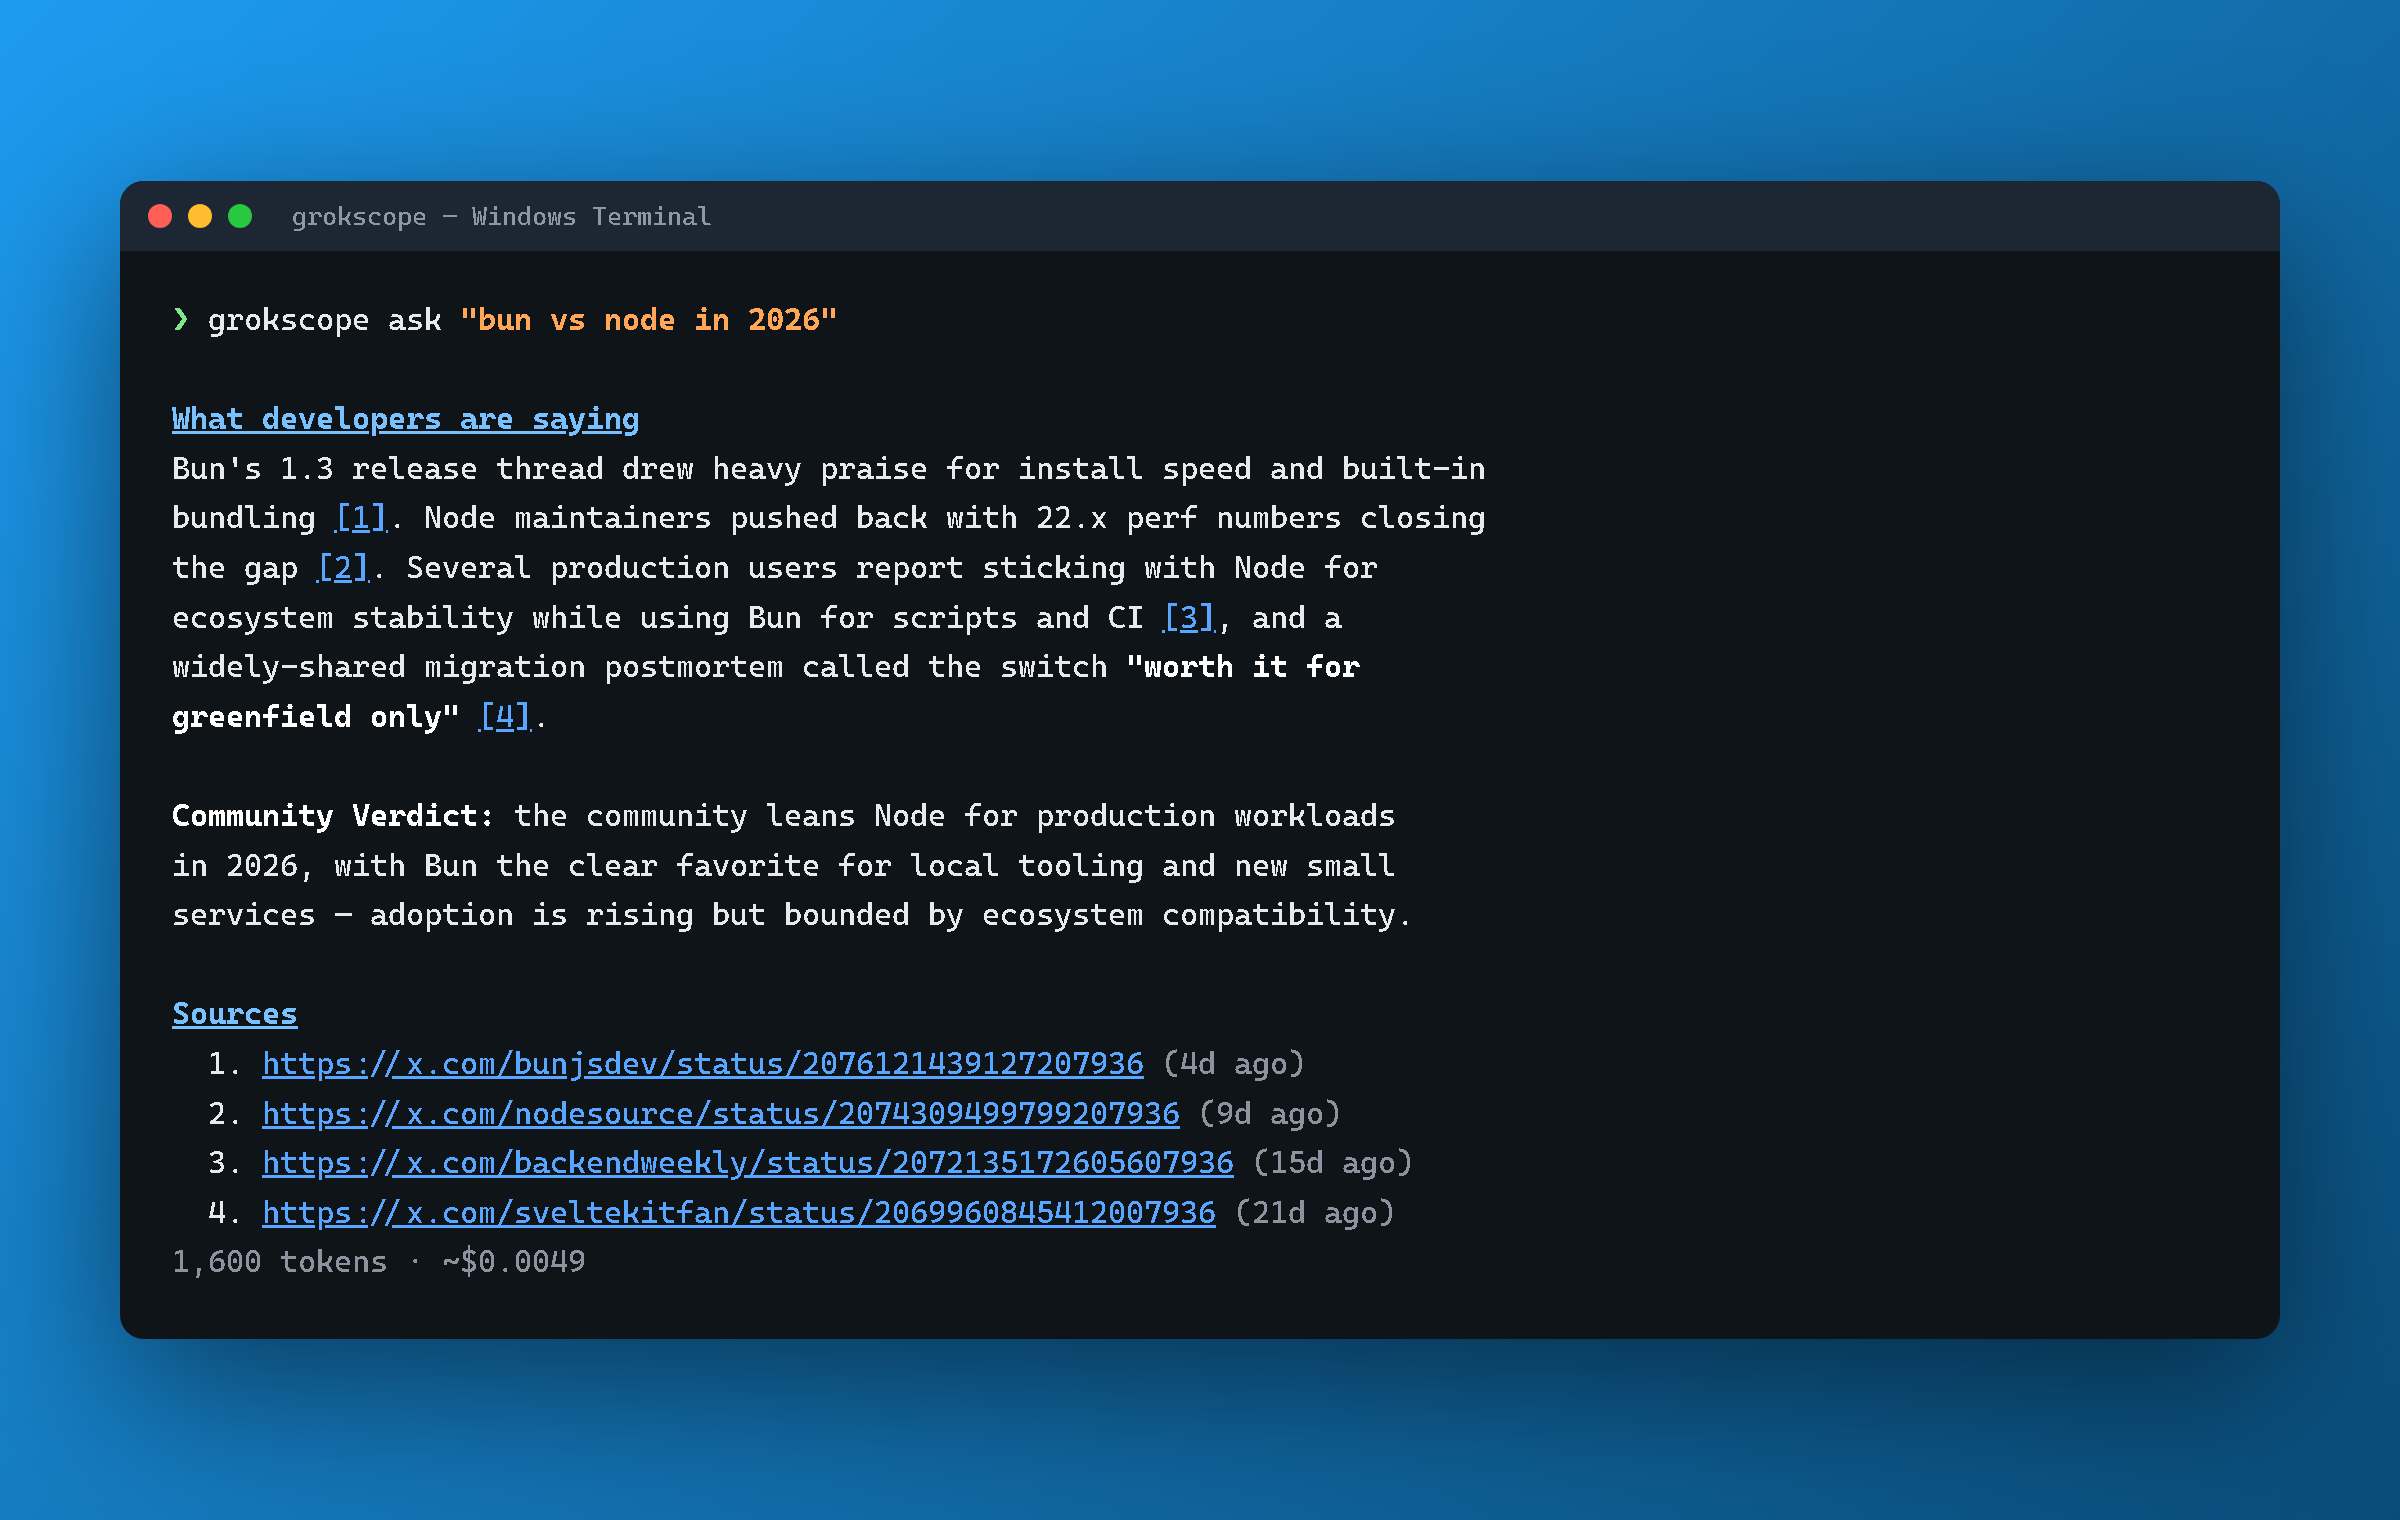
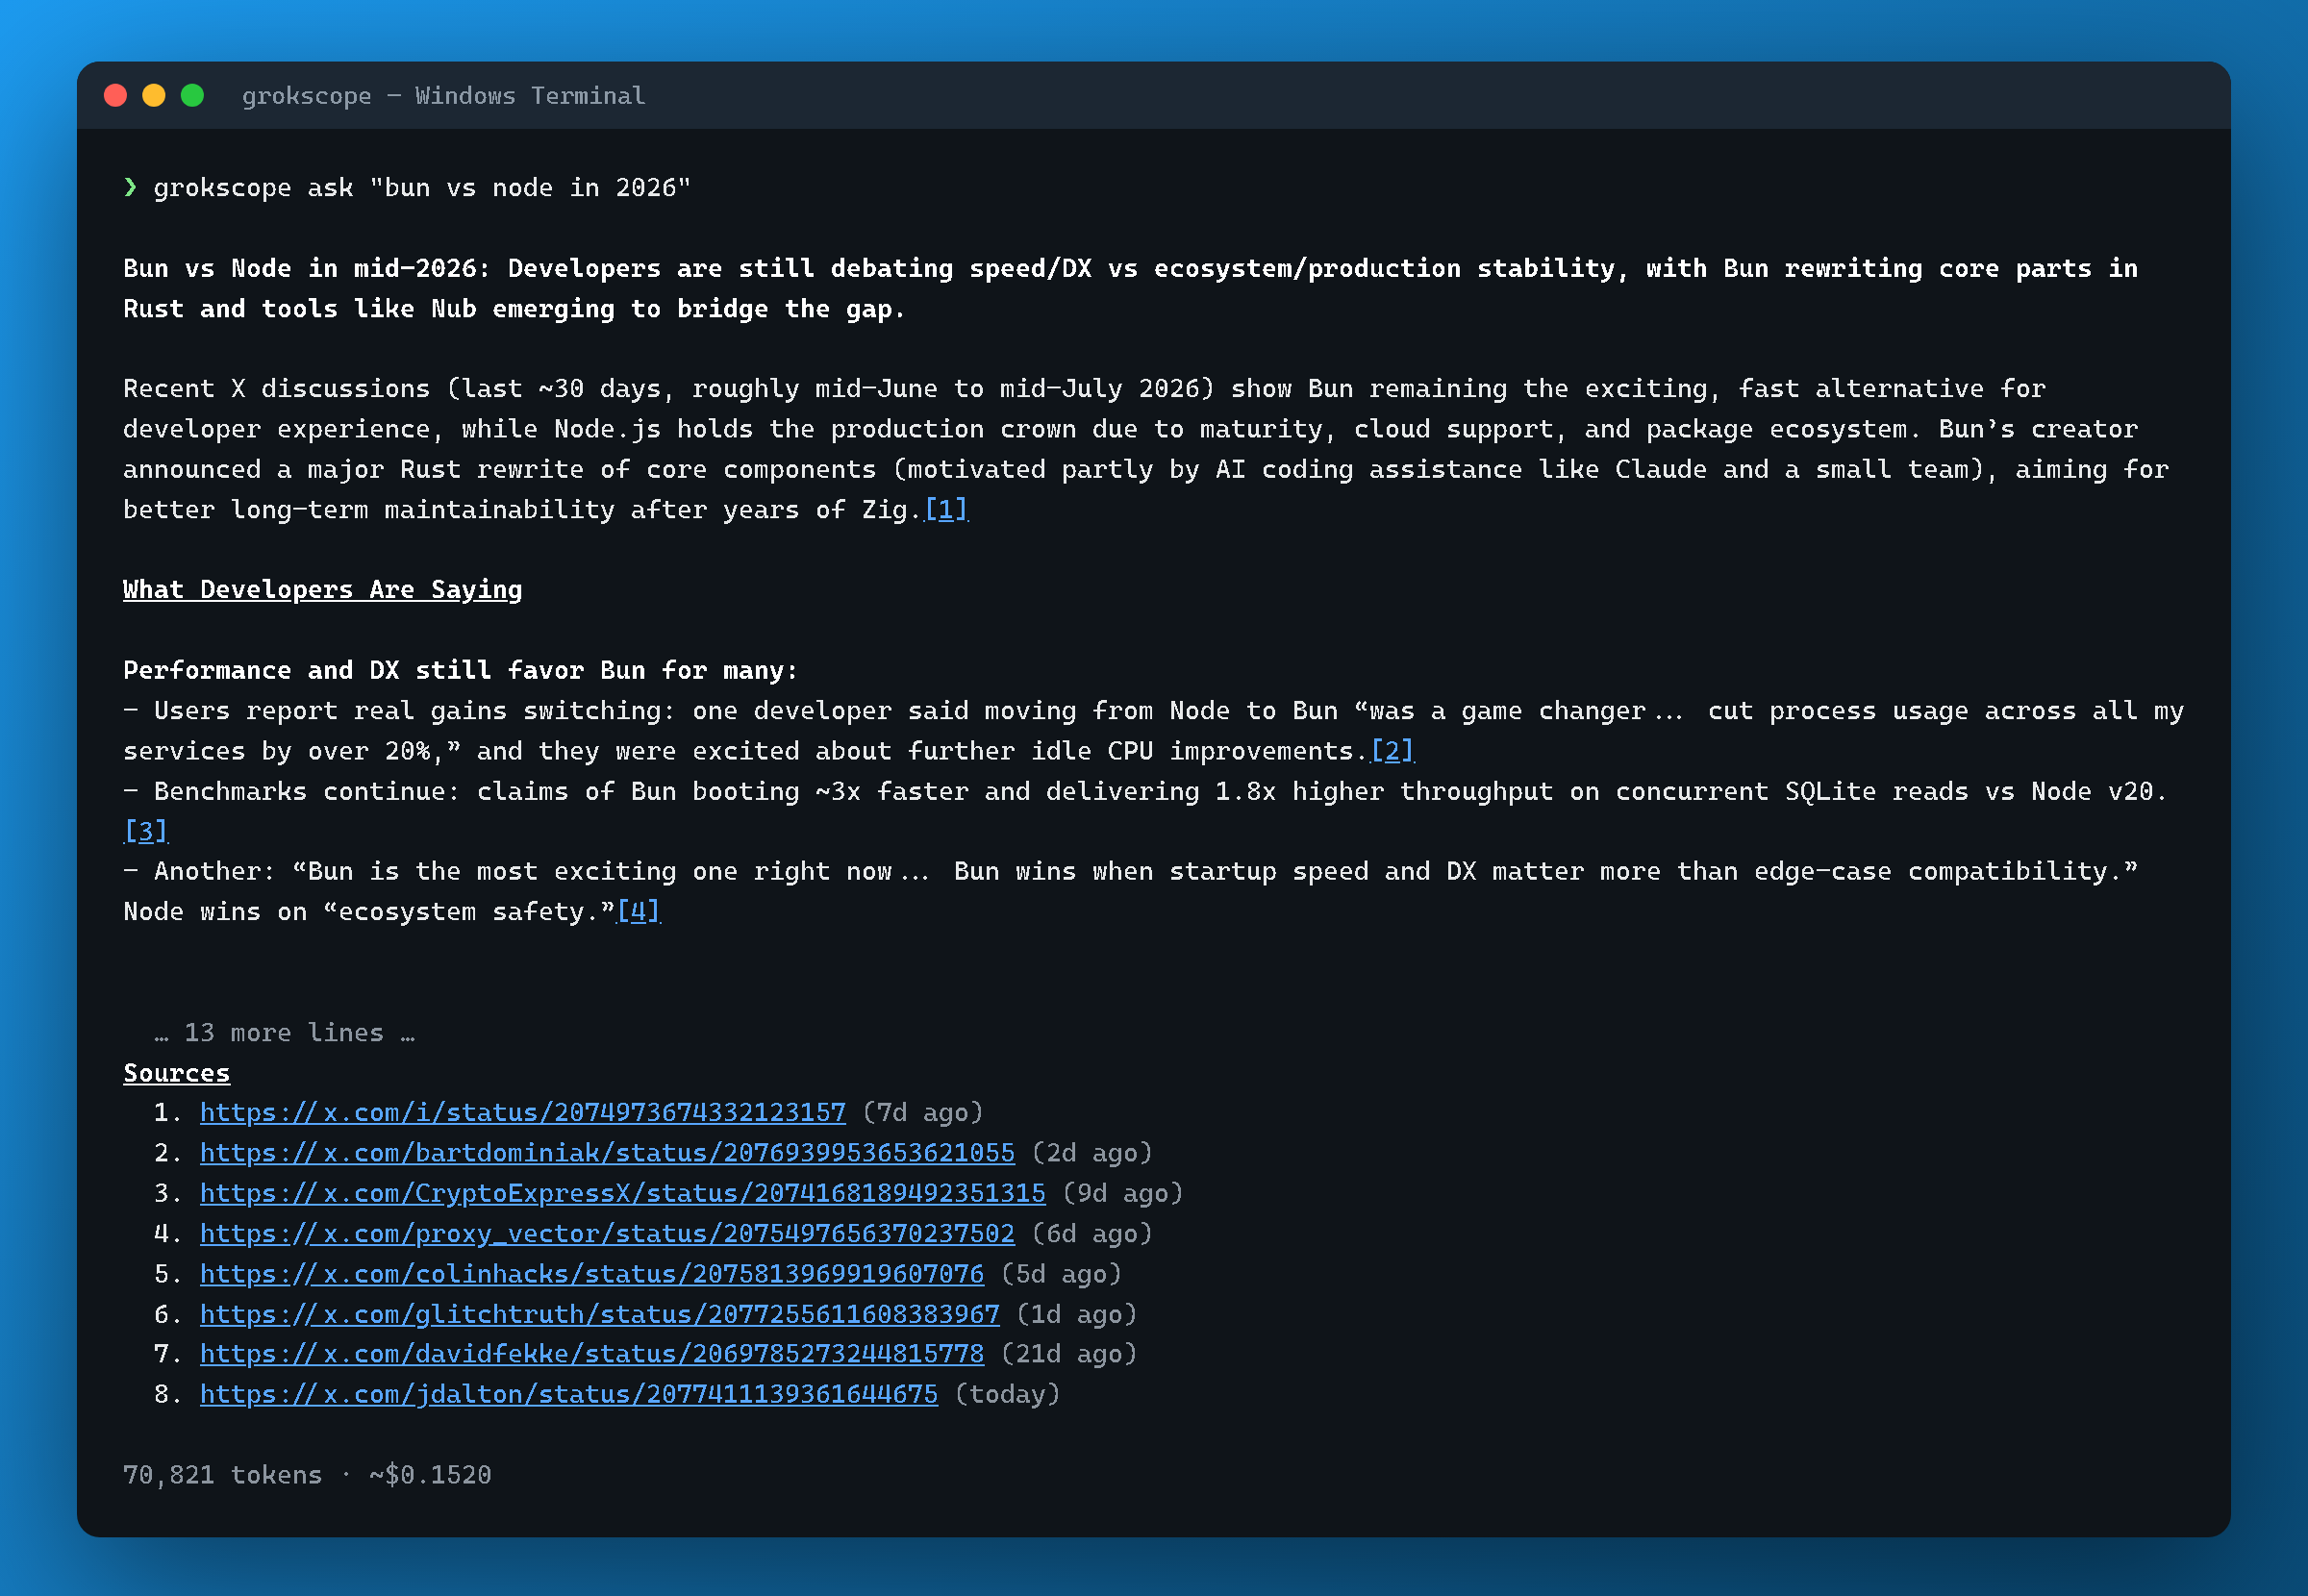
Replace fabricated screenshots with real, verified output
The marketing PNGs were hand-written HTML mockups presenting invented X posts
as real tool output. The fake handles (bunjsdev, nodesource, sveltekitfan) and
the "1,600 tokens / ~$0.0049" cost line came straight from the test mock's
fixtures - fixture data dressed up as a product demo. All four fabricated
citation URLs return 404. GrokScope's whole pitch is that every claim cites a
real post, so the hero image would have collapsed that claim on the first click.

Regenerated from two real API runs (ask $0.152, trending $0.202) by rendering
the cached --json through the shipped formatter with ansi=true, so the images
show exactly what a TTY shows. Every citation verified live: 8/8 and 17/17
return 200, against 404 for the fabricated ones.

Also removed two more surviving false cost claims: the README documented the
cost line as "1,600 tokens / ~$0.0049" (31x under) and the one-pager still said
"typically a few cents". Regenerated the stale PDF from the fixed HTML.

marketing/render-shot.mjs is committed so the images can be rebuilt from any
cached run rather than hand-drawn again.

diff --git a/marketing/screenshot-trending.html b/marketing/screenshot-trending.html
@@ -1,35 +1,52 @@
 <!DOCTYPE html>
 <html><head><meta charset="utf-8"><style>
   * { margin:0; padding:0; box-sizing:border-box; }
-  body { width:1200px; height:660px; background:linear-gradient(135deg,#1d9bf0 0%,#0a4d7a 100%); display:flex; align-items:center; justify-content:center; font-family:"Cascadia Code",Consolas,monospace; }
-  .win { width:1080px; background:#0f1419; border-radius:12px; box-shadow:0 24px 80px rgba(0,0,0,.5); overflow:hidden; }
+  body { width:1200px; background:linear-gradient(135deg,#1d9bf0 0%,#0a4d7a 100%); display:flex; align-items:center; justify-content:center; padding:32px 0; font-family:"Cascadia Code",Consolas,monospace; }
+  .win { width:1120px; background:#0f1419; border-radius:12px; box-shadow:0 24px 80px rgba(0,0,0,.5); overflow:hidden; }
   .bar { background:#1c2733; padding:10px 14px; display:flex; gap:8px; align-items:center; }
   .dot { width:12px; height:12px; border-radius:50%; }
   .r{background:#ff5f57}.y{background:#febc2e}.g{background:#28c840}
   .title { color:#8b98a5; font-size:13px; margin-left:12px; }
-  .body { padding:22px 26px 26px; color:#e7e9ea; font-size:15.5px; line-height:1.6; white-space:pre-wrap; }
-  .p { color:#7ee787; } .h { color:#79c0ff; font-weight:bold; text-decoration:underline; }
-  .c { color:#58a6ff; text-decoration:underline; } .d { color:#8b949e; }
-  .v { color:#ffa657; font-weight:bold; } .b { font-weight:bold; color:#fff; }
-  .up{color:#28c840;font-weight:bold}.flat{color:#febc2e;font-weight:bold}
+  .body { padding:20px 24px 22px; color:#e7e9ea; font-size:13.5px; line-height:1.55; white-space:pre-wrap; word-break:break-word; }
+  .prompt { color:#7ee787; }
+  .b { font-weight:bold; color:#fff; }
+  .d { color:#8b949e; }
+  .u { text-decoration:underline; }
+  .c { color:#58a6ff; }
+  a { color:#58a6ff; text-decoration:underline; }
+  .cost { color:#8b949e; margin-top:10px; }
 </style></head>
 <body><div class="win">
   <div class="bar"><span class="dot r"></span><span class="dot y"></span><span class="dot g"></span><span class="title">grokscope — Windows Terminal</span></div>
-  <div class="body"><span class="p">❯</span> grokscope trending --topics <span class="v">"rust,typescript,go"</span>
+  <div class="body"><span class="prompt">❯</span> grokscope trending --topics "rust,typescript,go"
 
-<span class="h">Weekly buzz report</span>
-<span class="b">rust</span> — sentiment: positive. Top concern: compile times keep coming up
-in this week's threads <span class="c">[1]</span>. Momentum: <span class="up">rising</span> ↑
+<span class="b">Rust</span>  
+Sentiment is mixed-to-positive, driven by strong community activity around new TUI tools, open-source releases like Grok Build and lazyrsync, job boards listing 600+ roles, and events such as EuroRust and Solana/Rust meetups.<span class="c"><span class="u"><a href="https://x.com/orhundev/status/2077509839106785621">[1]</a></span></span><span class="c"><span class="u"><a href="https://x.com/orhundev/status/2076760832503955860">[2]</a></span></span><span class="c"><span class="u"><a href="https://x.com/ayushagarwal027/status/2077386270326853995">[3]</a></span></span> Top concern is the learning curve around the borrow checker, slow compile times, and production panics from unwraps or inconsistent error messages during ports and rewrites.<span class="c"><span class="u"><a href="https://x.com/realpastaya/status/2075224057570615611">[4]</a></span></span><span class="c"><span class="u"><a href="https://x.com/ianzepp/status/2077514764809302354">[5]</a></span></span><span class="c"><span class="u"><a href="https://x.com/lockinmarv/status/2075939004986331480">[6]</a></span></span> Momentum is rising with high-engagement tool launches, global job visibility, and conference activity.<span class="c"><span class="u"><a href="https://x.com/SuperteamAU/status/2077561870215749671">[7]</a></span></span>
 
-<span class="b">typescript</span> — sentiment: mixed. Top concern: tooling churn after the
-native-compiler previews <span class="c">[2]</span>. Momentum: <span class="flat">stable</span> →
+<span class="b">TypeScript</span>  
+Sentiment is strongly positive following the TypeScript 7.0 release (native Go port delivering 8-12x faster builds, better memory use, and improved language server).<span class="c"><span class="u"><a href="https://x.com/code/status/2076781322929139914">[8]</a></span></span><span class="c"><span class="u"><a href="https://x.com/webstandardsdev/status/2077694855526928424">[9]</a></span></span> Posts highlight project bootstraps, hiring demand, NestJS updates, and tools for AI agents.<span class="c"><span class="u"><a href="https://x.com/yourtowhid/status/2077737061944332615">[10]</a></span></span> Top concern is ecosystem readiness, including dual TS6/TS7 operation and library migration friction.<span class="c"><span class="u"><a href="https://x.com/yutafuru/status/2077725163425071445">[11]</a></span></span><span class="c"><span class="u"><a href="https://x.com/shostechdev/status/2077693267773137031">[12]</a></span></span> Momentum is rising sharply due to the performance leap and VS Code integration buzz.<span class="c"><span class="u"><a href="https://x.com/rh0kzy/status/2076476216249299234">[13]</a></span></span>
 
-<span class="b">go</span> — sentiment: positive. Top concern: generics ergonomics still split
-the community <span class="c">[3]</span>. Momentum: <span class="up">rising</span> ↑
+<span class="b">Go</span>  
+Sentiment is mixed-positive, with praise for high-throughput backend migrations, microservices, concurrency (goroutines/channels), and enterprise maintainability, plus active tool-building (C2 frameworks, DBs, PR reviewers).<span class="c"><span class="u"><a href="https://x.com/Hi_Mrinal/status/2077371600622756202">[14]</a></span></span><span class="c"><span class="u"><a href="https://x.com/rseroter/status/2077677114766299487">[15]</a></span></span> Top concern is verbose error handling, nils, lack of true enums, and concurrency pitfalls like race conditions or channel mismanagement.<span class="c"><span class="u"><a href="https://x.com/Hi_Mrinal/status/2077371600622756202">[14]</a></span></span><span class="c"><span class="u"><a href="https://x.com/0xlelouch_/status/2076776821455011877">[16]</a></span></span> Momentum is stable, reflecting steady production use, freelance demand, and incremental compiler/runtime fixes without a major release spike.<span class="c"><span class="u"><a href="https://x.com/repojournal/status/2077740154937131114">[17]</a></span></span>
 
-<span class="h">Sources</span>
-  1. <span class="c">https://x.com/rustdev/status/2078295766454807936</span> <span class="d">(1d ago)</span>
-  2. <span class="c">https://x.com/typescriptdev/status/2076121439127207936</span> <span class="d">(2d ago)</span>
-  3. <span class="c">https://x.com/godev/status/2073947112699207936</span> <span class="d">(3d ago)</span>
-<span class="d">1,340 tokens · ~$0.0041</span></div>
+<span class="b"><span class="u">Sources</span></span>
+  1. <span class="c"><span class="u"><a href="https://x.com/orhundev/status/2077509839106785621">https://x.com/orhundev/status/2077509839106785621</a></span></span> <span class="d">(today)</span>
+  2. <span class="c"><span class="u"><a href="https://x.com/orhundev/status/2076760832503955860">https://x.com/orhundev/status/2076760832503955860</a></span></span> <span class="d">(2d ago)</span>
+  3. <span class="c"><span class="u"><a href="https://x.com/ayushagarwal027/status/2077386270326853995">https://x.com/ayushagarwal027/status/2077386270326853995</a></span></span> <span class="d">(today)</span>
+  4. <span class="c"><span class="u"><a href="https://x.com/realpastaya/status/2075224057570615611">https://x.com/realpastaya/status/2075224057570615611</a></span></span> <span class="d">(6d ago)</span>
+  5. <span class="c"><span class="u"><a href="https://x.com/ianzepp/status/2077514764809302354">https://x.com/ianzepp/status/2077514764809302354</a></span></span> <span class="d">(today)</span>
+  6. <span class="c"><span class="u"><a href="https://x.com/lockinmarv/status/2075939004986331480">https://x.com/lockinmarv/status/2075939004986331480</a></span></span> <span class="d">(4d ago)</span>
+  7. <span class="c"><span class="u"><a href="https://x.com/SuperteamAU/status/2077561870215749671">https://x.com/SuperteamAU/status/2077561870215749671</a></span></span> <span class="d">(today)</span>
+  8. <span class="c"><span class="u"><a href="https://x.com/code/status/2076781322929139914">https://x.com/code/status/2076781322929139914</a></span></span> <span class="d">(2d ago)</span>
+  9. <span class="c"><span class="u"><a href="https://x.com/webstandardsdev/status/2077694855526928424">https://x.com/webstandardsdev/status/2077694855526928424</a></span></span> <span class="d">(today)</span>
+  10. <span class="c"><span class="u"><a href="https://x.com/yourtowhid/status/2077737061944332615">https://x.com/yourtowhid/status/2077737061944332615</a></span></span> <span class="d">(today)</span>
+  11. <span class="c"><span class="u"><a href="https://x.com/yutafuru/status/2077725163425071445">https://x.com/yutafuru/status/2077725163425071445</a></span></span> <span class="d">(today)</span>
+  12. <span class="c"><span class="u"><a href="https://x.com/shostechdev/status/2077693267773137031">https://x.com/shostechdev/status/2077693267773137031</a></span></span> <span class="d">(today)</span>
+  13. <span class="c"><span class="u"><a href="https://x.com/rh0kzy/status/2076476216249299234">https://x.com/rh0kzy/status/2076476216249299234</a></span></span> <span class="d">(3d ago)</span>
+  14. <span class="c"><span class="u"><a href="https://x.com/Hi_Mrinal/status/2077371600622756202">https://x.com/Hi_Mrinal/status/2077371600622756202</a></span></span> <span class="d">(1d ago)</span>
+  15. <span class="c"><span class="u"><a href="https://x.com/rseroter/status/2077677114766299487">https://x.com/rseroter/status/2077677114766299487</a></span></span> <span class="d">(today)</span>
+  16. <span class="c"><span class="u"><a href="https://x.com/0xlelouch_/status/2076776821455011877">https://x.com/0xlelouch_/status/2076776821455011877</a></span></span> <span class="d">(2d ago)</span>
+  17. <span class="c"><span class="u"><a href="https://x.com/repojournal/status/2077740154937131114">https://x.com/repojournal/status/2077740154937131114</a></span></span> <span class="d">(today)</span>
+
+<span class="cost">94,989 tokens · ~$0.2021</span></div>
 </div></body></html>

diff --git a/marketing/screenshot-ask.html b/marketing/screenshot-ask.html
@@ -1,37 +1,47 @@
 <!DOCTYPE html>
 <html><head><meta charset="utf-8"><style>
   * { margin:0; padding:0; box-sizing:border-box; }
-  body { width:1200px; height:760px; background:linear-gradient(135deg,#1d9bf0 0%,#0a4d7a 100%); display:flex; align-items:center; justify-content:center; font-family:"Cascadia Code",Consolas,monospace; }
-  .win { width:1080px; background:#0f1419; border-radius:12px; box-shadow:0 24px 80px rgba(0,0,0,.5); overflow:hidden; }
+  body { width:1200px; background:linear-gradient(135deg,#1d9bf0 0%,#0a4d7a 100%); display:flex; align-items:center; justify-content:center; padding:32px 0; font-family:"Cascadia Code",Consolas,monospace; }
+  .win { width:1120px; background:#0f1419; border-radius:12px; box-shadow:0 24px 80px rgba(0,0,0,.5); overflow:hidden; }
   .bar { background:#1c2733; padding:10px 14px; display:flex; gap:8px; align-items:center; }
   .dot { width:12px; height:12px; border-radius:50%; }
   .r{background:#ff5f57}.y{background:#febc2e}.g{background:#28c840}
   .title { color:#8b98a5; font-size:13px; margin-left:12px; }
-  .body { padding:22px 26px 26px; color:#e7e9ea; font-size:15.5px; line-height:1.6; white-space:pre-wrap; }
-  .p { color:#7ee787; } .h { color:#79c0ff; font-weight:bold; text-decoration:underline; }
-  .c { color:#58a6ff; text-decoration:underline; } .d { color:#8b949e; }
-  .v { color:#ffa657; font-weight:bold; } .b { font-weight:bold; color:#fff; }
+  .body { padding:20px 24px 22px; color:#e7e9ea; font-size:13.5px; line-height:1.55; white-space:pre-wrap; word-break:break-word; }
+  .prompt { color:#7ee787; }
+  .b { font-weight:bold; color:#fff; }
+  .d { color:#8b949e; }
+  .u { text-decoration:underline; }
+  .c { color:#58a6ff; }
+  a { color:#58a6ff; text-decoration:underline; }
+  .cost { color:#8b949e; margin-top:10px; }
 </style></head>
 <body><div class="win">
   <div class="bar"><span class="dot r"></span><span class="dot y"></span><span class="dot g"></span><span class="title">grokscope — Windows Terminal</span></div>
-  <div class="body"><span class="p">❯</span> grokscope ask <span class="v">"bun vs node in 2026"</span>
+  <div class="body"><span class="prompt">❯</span> grokscope ask "bun vs node in 2026"
 
-<span class="h">What developers are saying</span>
-Bun's 1.3 release thread drew heavy praise for install speed and built-in
-bundling <span class="c">[1]</span>. Node maintainers pushed back with 22.x perf numbers closing
-the gap <span class="c">[2]</span>. Several production users report sticking with Node for
-ecosystem stability while using Bun for scripts and CI <span class="c">[3]</span>, and a
-widely-shared migration postmortem called the switch <span class="b">"worth it for
-greenfield only"</span> <span class="c">[4]</span>.
+<span class="b">Bun vs Node in mid-2026: Developers are still debating speed/DX vs ecosystem/production stability, with Bun rewriting core parts in Rust and tools like Nub emerging to bridge the gap.</span>
 
-<span class="b">Community Verdict:</span> the community leans Node for production workloads
-in 2026, with Bun the clear favorite for local tooling and new small
-services — adoption is rising but bounded by ecosystem compatibility.
+Recent X discussions (last ~30 days, roughly mid-June to mid-July 2026) show Bun remaining the exciting, fast alternative for developer experience, while Node.js holds the production crown due to maturity, cloud support, and package ecosystem. Bun’s creator announced a major Rust rewrite of core components (motivated partly by AI coding assistance like Claude and a small team), aiming for better long-term maintainability after years of Zig.<span class="c"><span class="u"><a href="https://x.com/i/status/2074973674332123157">[1]</a></span></span>
 
-<span class="h">Sources</span>
-  1. <span class="c">https://x.com/bunjsdev/status/2076121439127207936</span> <span class="d">(4d ago)</span>
-  2. <span class="c">https://x.com/nodesource/status/2074309499799207936</span> <span class="d">(9d ago)</span>
-  3. <span class="c">https://x.com/backendweekly/status/2072135172605607936</span> <span class="d">(15d ago)</span>
-  4. <span class="c">https://x.com/sveltekitfan/status/2069960845412007936</span> <span class="d">(21d ago)</span>
-<span class="d">1,600 tokens · ~$0.0049</span></div>
+<span class="b"><span class="u">What Developers Are Saying</span></span>
+
+<span class="b">Performance and DX still favor Bun for many:</span>
+- Users report real gains switching: one developer said moving from Node to Bun “was a game changer... cut process usage across all my services by over 20%,” and they were excited about further idle CPU improvements.<span class="c"><span class="u"><a href="https://x.com/bartdominiak/status/2076939953653621055">[2]</a></span></span>
+- Benchmarks continue: claims of Bun booting ~3x faster and delivering 1.8x higher throughput on concurrent SQLite reads vs Node v20.<span class="c"><span class="u"><a href="https://x.com/CryptoExpressX/status/2074168189492351315">[3]</a></span></span>
+- Another: “Bun is the most exciting one right now... Bun wins when startup speed and DX matter more than edge-case compatibility.” Node wins on “ecosystem safety.”<span class="c"><span class="u"><a href="https://x.com/proxy_vector/status/2075497656370237502">[4]</a></span></span>
+
+
+<span class="d">  … 13 more lines …</span>
+<span class="b"><span class="u">Sources</span></span>
+  1. <span class="c"><span class="u"><a href="https://x.com/i/status/2074973674332123157">https://x.com/i/status/2074973674332123157</a></span></span> <span class="d">(7d ago)</span>
+  2. <span class="c"><span class="u"><a href="https://x.com/bartdominiak/status/2076939953653621055">https://x.com/bartdominiak/status/2076939953653621055</a></span></span> <span class="d">(2d ago)</span>
+  3. <span class="c"><span class="u"><a href="https://x.com/CryptoExpressX/status/2074168189492351315">https://x.com/CryptoExpressX/status/2074168189492351315</a></span></span> <span class="d">(9d ago)</span>
+  4. <span class="c"><span class="u"><a href="https://x.com/proxy_vector/status/2075497656370237502">https://x.com/proxy_vector/status/2075497656370237502</a></span></span> <span class="d">(6d ago)</span>
+  5. <span class="c"><span class="u"><a href="https://x.com/colinhacks/status/2075813969919607076">https://x.com/colinhacks/status/2075813969919607076</a></span></span> <span class="d">(5d ago)</span>
+  6. <span class="c"><span class="u"><a href="https://x.com/glitchtruth/status/2077255611608383967">https://x.com/glitchtruth/status/2077255611608383967</a></span></span> <span class="d">(1d ago)</span>
+  7. <span class="c"><span class="u"><a href="https://x.com/davidfekke/status/2069785273244815778">https://x.com/davidfekke/status/2069785273244815778</a></span></span> <span class="d">(21d ago)</span>
+  8. <span class="c"><span class="u"><a href="https://x.com/jdalton/status/2077411139361644675">https://x.com/jdalton/status/2077411139361644675</a></span></span> <span class="d">(today)</span>
+
+<span class="cost">70,821 tokens · ~$0.1520</span></div>
 </div></body></html>

diff --git a/marketing/one-pager.html b/marketing/one-pager.html
@@ -56,20 +56,22 @@
 
   <div class="term"><span class="p">$</span> grokscope ask <span class="v">"bun vs node in 2026"</span>
 
-<span class="h">What developers are saying</span>
-Bun's 1.3 release thread drew heavy praise for install speed and built-in
-bundling <span class="c">[1]</span>. Node maintainers pushed back with 22.x perf numbers closing
-the gap <span class="c">[2]</span>. Production users report sticking with Node for ecosystem
-stability while using Bun for scripts and CI <span class="c">[3]</span> — one widely-shared
-migration postmortem called the switch "worth it for greenfield only" <span class="c">[4]</span>.
+<span class="h">What Developers Are Saying</span>
+Users report real gains switching: one developer said moving from Node to Bun
+"was a game changer… cut process usage across all my services by over 20%" <span class="c">[1]</span>.
+Colin (Zod creator, now building Nub) put it bluntly: "unless you're using the
+Bun runtime on your production servers, you shouldn't be using it in dev, and
+virtually everyone still deploys to Node." <span class="c">[2]</span>
 
-<span class="h">Community Verdict:</span> the community leans Node for production workloads in
-2026, with Bun the clear favorite for local tooling and new small services.
+<span class="h">Community Verdict:</span> Node remains the safe default for production and large
+teams; Bun is preferred for greenfield, CLIs, and anything where startup time
+and pure DX dominate.
 
 <span class="h">Sources</span>
-  1. <span class="c">https://x.com/bunjsdev/status/2076121…</span> <span class="d">(4d ago)</span>
-  2. <span class="c">https://x.com/nodesource/status/2074309…</span> <span class="d">(9d ago)</span>
-  3. <span class="c">https://x.com/backendweekly/status/2072135…</span> <span class="d">(15d ago)</span></div>
+  1. <span class="c">https://x.com/bartdominiak/status/2076939953653621055</span> <span class="d">(2d ago)</span>
+  2. <span class="c">https://x.com/colinhacks/status/2075813969919607076</span> <span class="d">(5d ago)</span>
+  3. <span class="c">https://x.com/jdalton/status/2077411139361644675</span> <span class="d">(today)</span>
+<span class="d">70,821 tokens · ~$0.1520</span></div>
 
   <div class="cols">
     <div class="col">
@@ -100,7 +102,7 @@ migration postmortem called the switch "worth it for greenfield only" <span clas
         <li><b>Every claim cited</b> — inline numbered citations, rendered as clickable terminal hyperlinks (OSC 8).</li>
         <li><b>Recency tags</b> — post dates decoded from X snowflake IDs: you see <i>(4d ago)</i>, not "recently".</li>
         <li><b>Filters &amp; automation</b> — <code>--handles</code>, <code>--exclude</code>, <code>--days</code>; <code>--json</code> for CI, <code>--md</code> for newsletters, <code>doctor</code> for setup checks.</li>
-        <li><b>BYOK = private &amp; cheap</b> — your xAI key, your data; exact cost printed after every query (typically a few cents).</li>
+        <li><b>BYOK = private</b> — your xAI key, your data; the cost is printed after every query (~$0.15–$0.30, since x_search pulls dozens of real posts into context).</li>
       </ul>
       <h2>Setup in 2 minutes</h2>
       <div class="steps">

diff --git a/README.md b/README.md
@@ -98,7 +98,7 @@ npm run verify:live  # the 3 acceptance queries against the REAL API (needs GROK
 npm pack             # build the distributable tarball
 ```
 
-After each query the CLI prints a dim cost line to stderr (`1,600 tokens · ~$0.0049`) so BYOK users always know what they're spending. Shipping checklist lives in `SHIP.md`.
+After each query the CLI prints a dim cost line to stderr (`70,821 tokens · ~$0.1520` — a real measured run) so BYOK users always know what they're spending. Note it is an estimate from the published $2/$6-per-M rates, not xAI billing; console.x.ai is the source of truth. Shipping checklist lives in `SHIP.md`.
 
 `test/mock-server.mjs` mimics the xAI Responses API (including request-schema validation and realistic snowflake post IDs), so the full CLI pipeline is testable offline: `node test/mock-server.mjs` starts it standalone for manual demos.
 